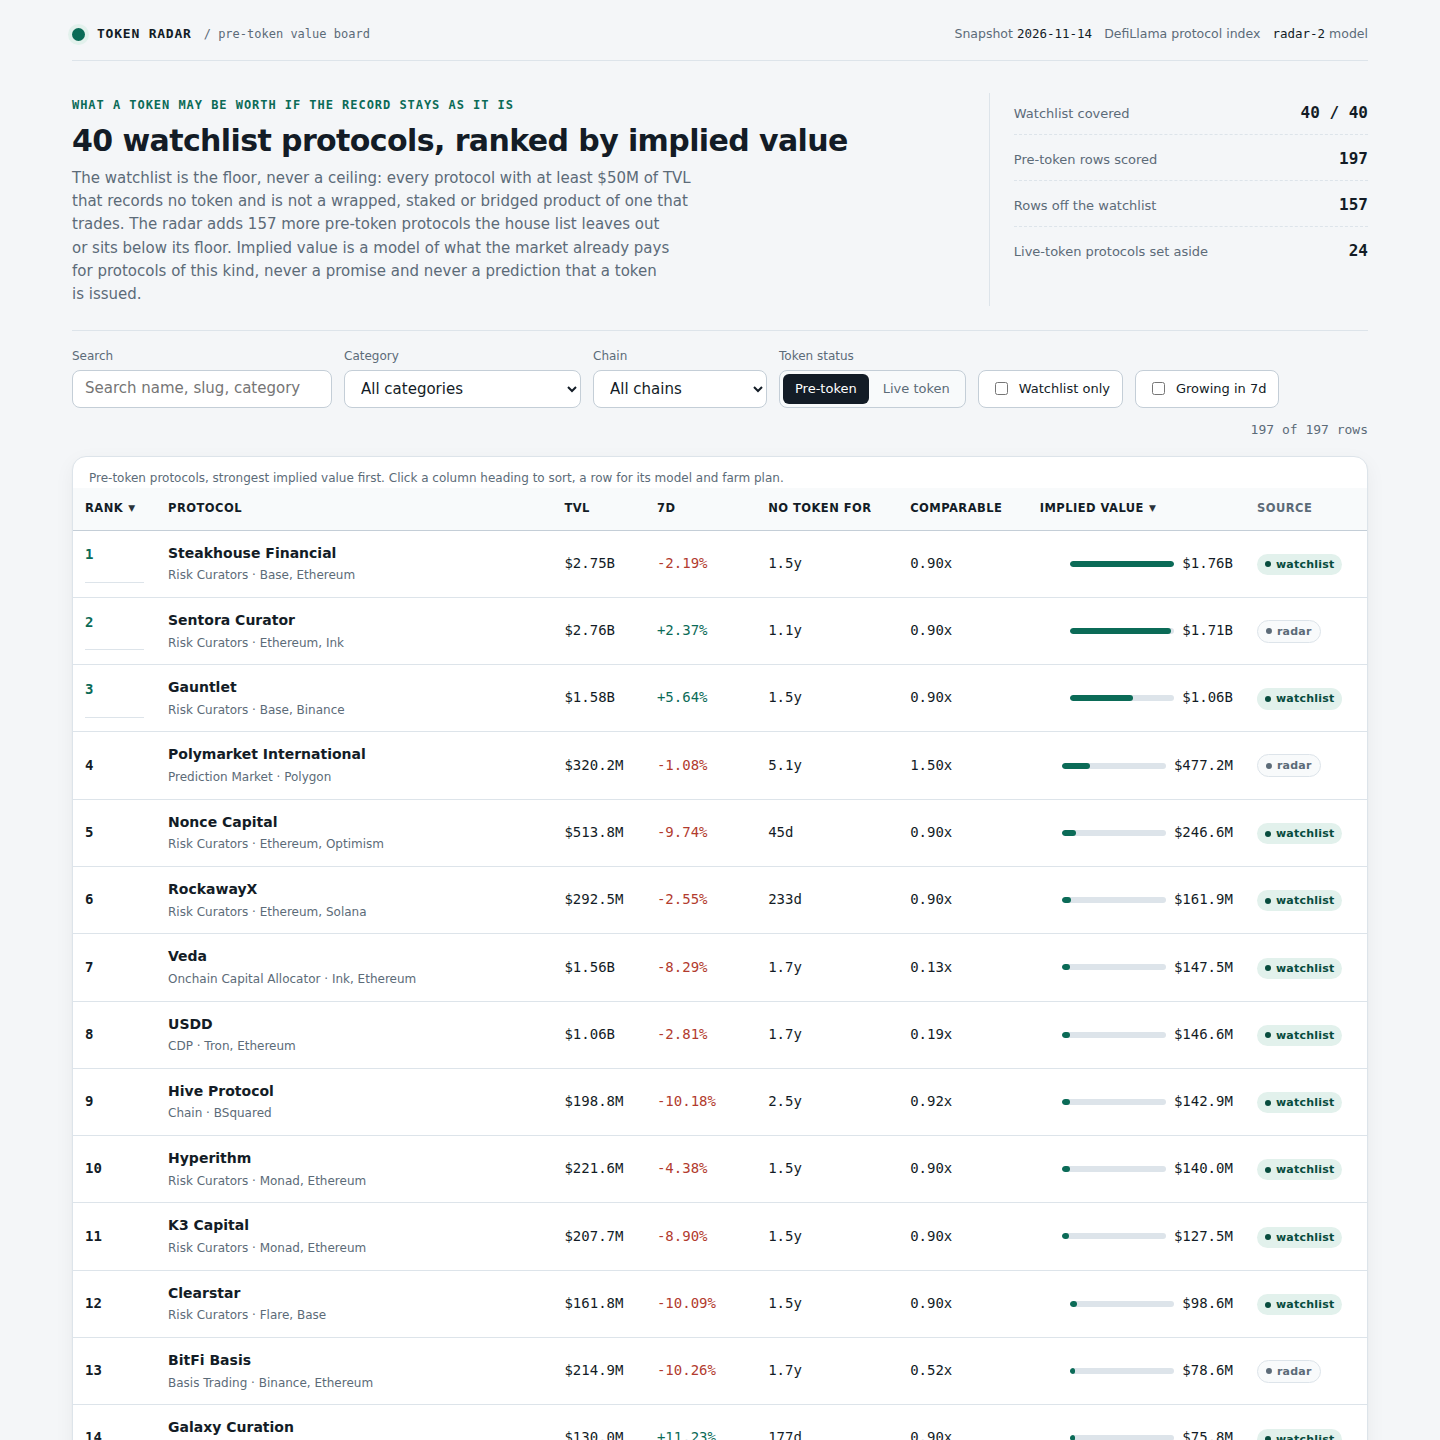
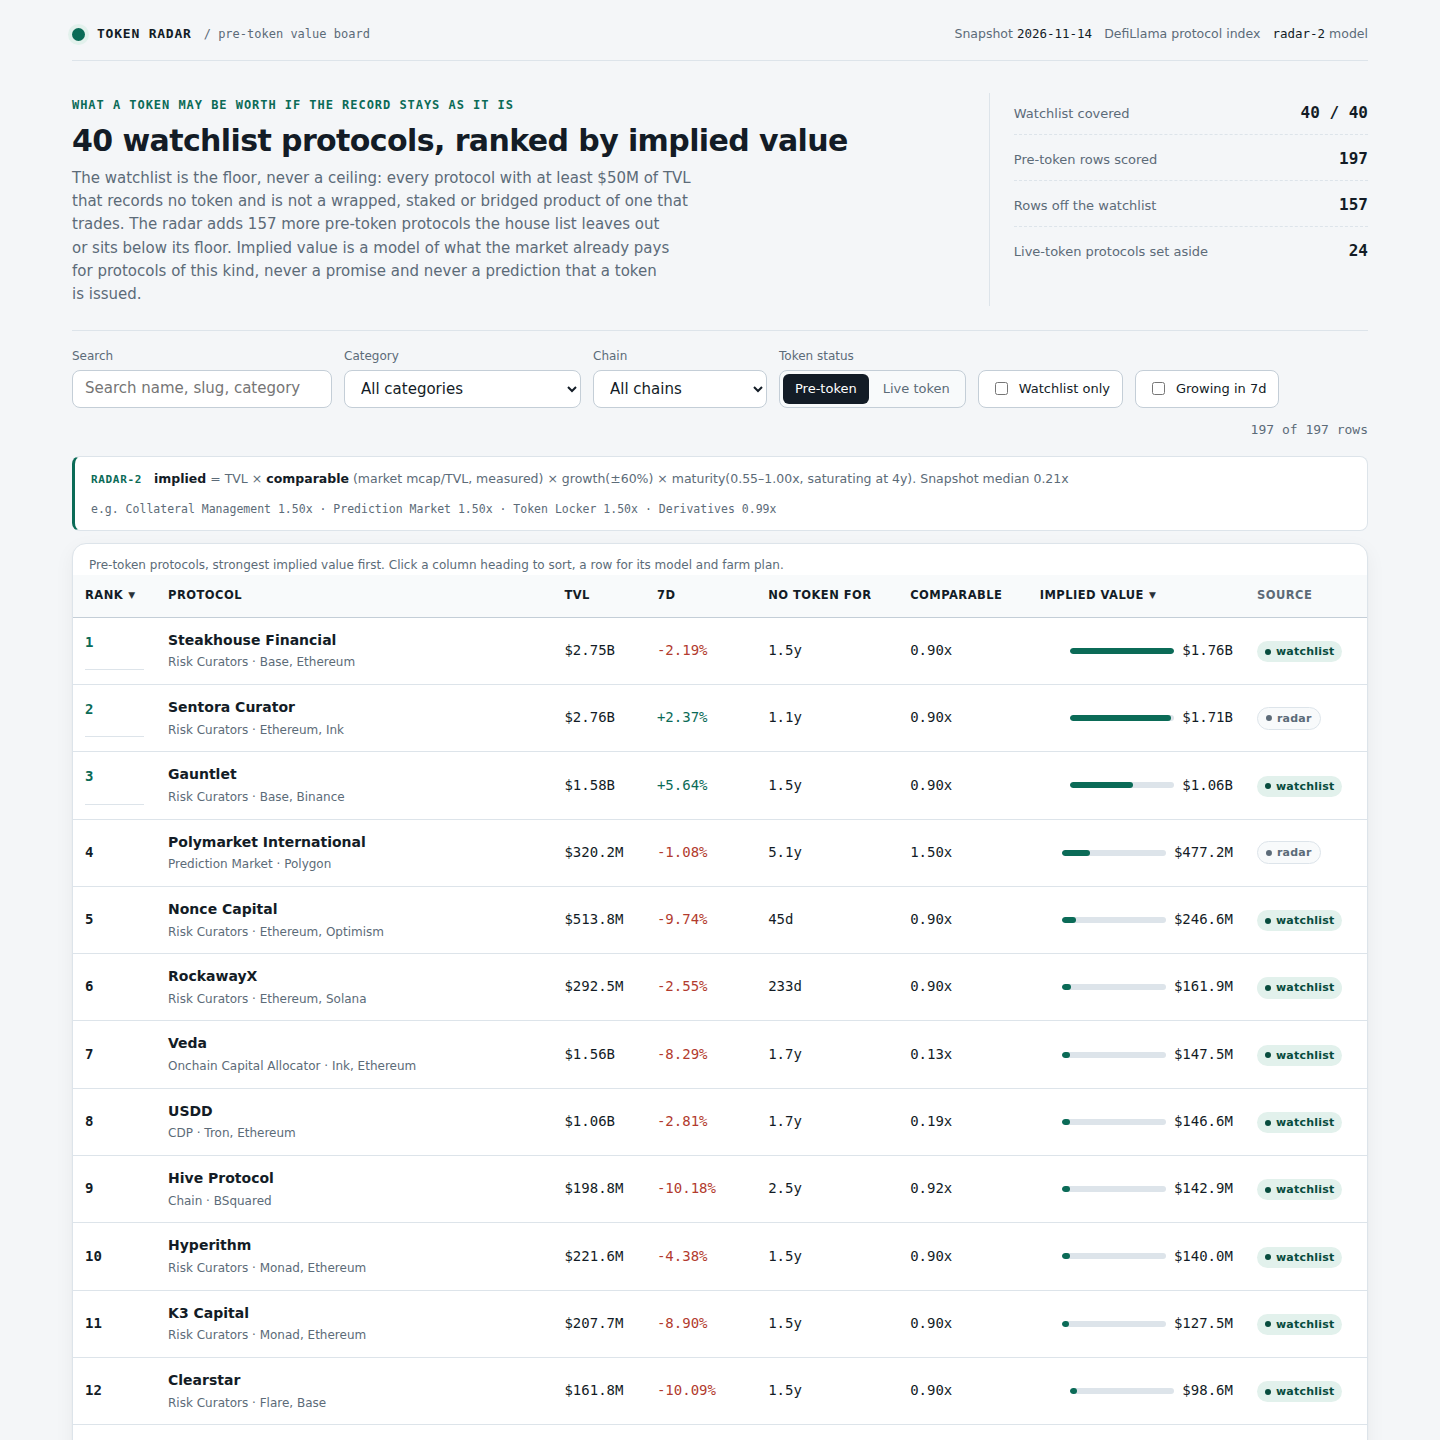
dashboard: model strip above the board, sample-count copy, refreshed screenshots

diff --git a/dashboard/app.js b/dashboard/app.js
@@ -341,6 +341,18 @@
     );
   }
 
+  function modelStrip() {
+    var m = DATA.model;
+    var top = DATA.comparables.slice(0, 4).map(function (c) { return c.category + ' ' + fmtMult(c.multiple); }).join(' \u00b7 ');
+    return el('div', { class: 'strip' },
+      el('span', { class: 'strip-label', text: DATA.model_version }),
+      el('span', { class: 'strip-text' },
+        el('b', { text: 'implied' }), ' = TVL \u00d7 ', el('b', { text: 'comparable' }), ' (market mcap/TVL, measured) \u00d7 growth(\u00b1', String(Math.round(m.growth_weight * 100)), '%) \u00d7 maturity(' + String(m.maturity_floor) + '\u2013' + fmtMult(m.maturity_floor + m.maturity_range) + ', saturating at ' + (m.maturity_days / 365).toFixed(0) + 'y). Snapshot median ' + fmtMult(DATA.comparable_overall)
+      ),
+      el('span', { class: 'strip-eg', text: 'e.g. ' + top })
+    );
+  }
+
   function modelPanel() {
     var m = DATA.model;
     var top = DATA.comparables.slice(0, 10);
@@ -441,6 +453,7 @@
     shell.appendChild(header());
     shell.appendChild(lede());
     shell.appendChild(controls());
+    shell.appendChild(state.tab === 'pre-token' ? modelStrip() : el('div'));
     shell.appendChild(state.tab === 'pre-token' ? boardTable() : liveTable());
     if (state.tab === 'pre-token') shell.appendChild(modelPanel());
     app.appendChild(shell);

diff --git a/dashboard/app.css b/dashboard/app.css
@@ -129,6 +129,17 @@ tbody tr[data-selected="true"] td:first-child { box-shadow: inset 3px 0 0 var(--
 .rank { font-family: var(--font-num); font-weight: 600; color: var(--ink); }
 .rank.top { color: var(--accent); }
 
+/* ---------------------------------------------------------------- model strip */
+.strip {
+  display: flex; flex-wrap: wrap; align-items: baseline; gap: var(--s3);
+  padding: var(--s3) var(--s4); margin-bottom: var(--s3);
+  background: var(--surface); border: 1px solid var(--border); border-left: 3px solid var(--accent);
+  border-radius: var(--radius-control); font-size: 12.5px; color: var(--muted);
+}
+.strip-label { font-family: var(--font-num); font-size: 11px; font-weight: 600; letter-spacing: 0.06em; text-transform: uppercase; color: var(--accent); }
+.strip-text b { color: var(--ink); font-weight: 600; }
+.strip-eg { font-family: var(--font-num); font-size: 11.5px; }
+
 /* ---------------------------------------------------------------- model panel */
 .model { margin-top: var(--s4); padding: var(--s5); display: grid; gap: var(--s3); }
 .formula { font-family: var(--font-num); font-size: 12.5px; line-height: 1.9; color: var(--ink); background: var(--surface-2); border: 1px solid var(--border); border-radius: var(--radius-control); padding: var(--s3) var(--s4); overflow-wrap: anywhere; }
